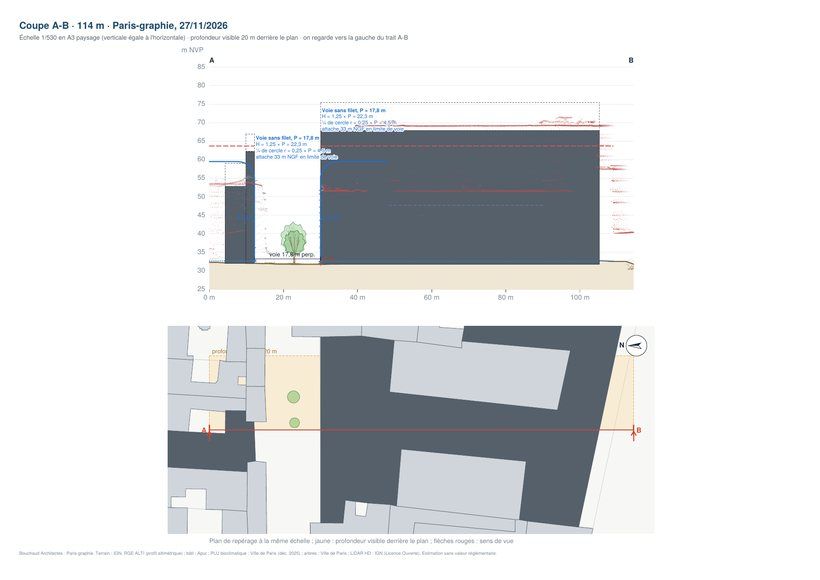
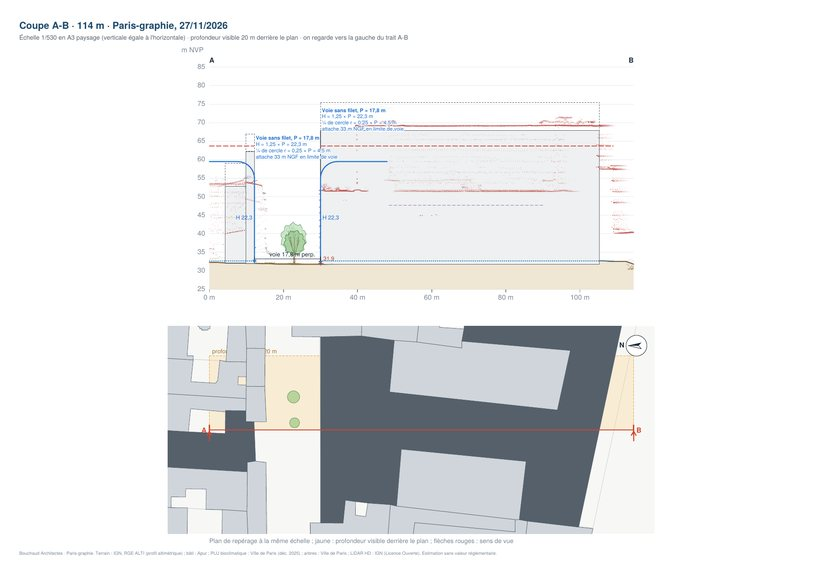
Coupe : bâtiments en blanc cassé pour laisser voir le LiDAR ; aperçu du tutoriel mis à jour
Claude-Session: https://claude.ai/code/session_01Jh7YYgZxbD1kj8CPiBwWcx

Changed region(s): [[0.3659, 0.2172, 0.7317, 0.4655], [0.2744, 0.2483, 0.3354, 0.4655]]

diff --git a/static/template.html b/static/template.html
@@ -1881,7 +1881,7 @@ async function cutShow(A,B,opt={}){
  const treeSvg=a=>{const g=treeGeom(a),op=Math.max(.25,1-Math.abs(a.d)/Math.max(1,LDg)*.7),cf=a.f==='con'||a.f==='pin'||a.f==='col'&&/cupress|thuja|taxus/i.test(a.n||'')?'#5d9466':'#8cc583',tip=esc((a.n||'Arbre ('+a.k+')')+' : '+fr(a.h,0)+' m'+(a.c?', circonférence '+a.c+' cm':'')+', port '+TK[a.f].n+(a.rem?', arbre remarquable':'')+(a.d?', à '+fr(Math.abs(a.d),0)+' m de la coupe':''));
   return '<g opacity="'+op.toFixed(2)+'"><title>'+tip+'</title><path d="'+pth(g.tr)+' Z" fill="#7a5a36"/>'+g.cr.map(c=>'<path d="'+pth(c)+' Z" fill="'+cf+'" fill-opacity=".6" stroke="#3f7f47" stroke-width=".6"/>').join('')+g.br.map(b=>'<path d="'+pth(b)+'" fill="none" stroke="#6b4f2a" stroke-width=".6" opacity=".7"/>').join('')+'</g>';};
  S.push('</g><g data-ly="arbres">');for(const a of Tr)if(Math.abs(a.d)>3)S.push(treeSvg(a));S.push('</g><g data-ly="bati">');
- for(const b of Bt){S.push('<rect x="'+f(X(b.t0))+'" y="'+f(Y(b.zb+b.hm))+'" width="'+f((b.t1-b.t0)*sc)+'" height="'+f(b.hm*sc)+'" fill="#55606b" stroke="#2b333b" stroke-width=".6"><title>Bâtiment : hauteur médiane '+f(b.hm)+' m, maximale '+f(b.hx)+' m'+(b.an?', construit vers '+b.an:'')+'</title></rect>');
+ for(const b of Bt){S.push('<rect x="'+f(X(b.t0))+'" y="'+f(Y(b.zb+b.hm))+'" width="'+f((b.t1-b.t0)*sc)+'" height="'+f(b.hm*sc)+'" fill="#eef0f1" stroke="#55606b" stroke-width=".7"><title>Bâtiment : hauteur médiane '+f(b.hm)+' m, maximale '+f(b.hx)+' m'+(b.an?', construit vers '+b.an:'')+'</title></rect>');
   if(b.hx>b.hm+.5)S.push('<rect x="'+f(X(b.t0))+'" y="'+f(Y(b.zb+b.hx))+'" width="'+f((b.t1-b.t0)*sc)+'" height="'+f((b.hx-b.hm)*sc)+'" fill="none" stroke="#55606b" stroke-dasharray="2 2" stroke-width=".6"/>');}
  S.push('</g><g data-ly="arbres">');for(const a of Tr)if(Math.abs(a.d)<=3)S.push(treeSvg(a));S.push('</g>');
  // PLU : nivellement, plafond, HMC, 15 m hors bande, gabarits
@@ -1949,7 +1949,7 @@ async function cutShow(A,B,opt={}){
  const LEG=[
   ['<svg width="26" height="8" style="vertical-align:middle;margin-right:5px">'+[2,5,6,9].map((c,i)=>'<circle cx="'+(3+i*6.5)+'" cy="4" r="2.2" fill="'+LCL[c][1]+'"/>').join('')+'</svg>','Nuage de points LiDAR HD (IGN)','Points classés du LiDAR HD de l\'IGN (au moins 10 points/m², relevé '+'aérien 2021-2025), projetés perpendiculairement sur la coupe. Seuls les morceaux utiles des dalles sont téléchargés (format COPC, requêtes partielles). Couleurs : '+Object.values(LCL).map(v=>'<span style="color:'+v[1]+'">●</span> '+v[0].toLowerCase()).join(', ')+'. Seuls les points situés derrière le plan de coupe, dans le sens de vue (flèches rouges du plan de repérage), sont gardés, jusqu\'à la profondeur réglée par le curseur (10 cm à 150 m, pratique pour les places) ; ceux placés entre l\'observateur et le plan sont supprimés. Opacité : 100 % à moins de 25 cm du plan, puis de 50 % jusqu\'à presque rien à la profondeur choisie. Au-delà de 1,5 million de points, le niveau de détail est réduit. Altitudes IGN69 converties en NVP. Points virtuels, bruit et artefacts écartés. Dans le DXF, un calque par classe (points). Données IGN, Licence Ouverte Etalab 2.0.'],
   [sw('#6b5a3a'),'Terrain','Profil altimétrique RGE ALTI de l\'IGN échantillonné le long de A-B (un point tous les 2 m environ), converti en NVP (NGF − 0,33 m). À défaut, interpolation des cotes et des courbes de niveau. Source : '+esc(D.tsrc)+'.'],
-  [sw('#55606b'),'Bâtiments','Intersections de la ligne avec les emprises Apur. Hauteur médiane en plein, maximale en pointillé, posées au point bas du terrain sous l\'emprise. Les hauteurs Apur viennent d\'un relevé photogrammétrique : vérifier sur relevé de géomètre.'],
+  ['<svg width="26" height="8" style="vertical-align:middle;margin-right:5px"><rect x=".5" y=".5" width="25" height="7" fill="#eef0f1" stroke="#55606b"/></svg>','Bâtiments','Intersections de la ligne avec les emprises Apur. Hauteur médiane en blanc cassé (pour laisser voir le LiDAR), maximale en pointillé, posées au point bas du terrain sous l\'emprise. Les hauteurs Apur viennent d\'un relevé photogrammétrique : vérifier sur relevé de géomètre.'],
   [sw('#3f7f47'),'Arbres',(D.tsrcA?'Chaque arbre public situé derrière le plan de coupe, jusqu\'à la profondeur choisie ('+nA+' ici), vient du jeu « Les arbres » de la Ville de Paris, lu en direct : position projetée sur la coupe, hauteur relevée (à défaut, 3 m + 0,08 × circonférence en cm), tronc au diamètre déduit de la circonférence. Le port dépend du genre : fastigié (peupliers d\'Italie, cyprès, cultivars « Fastigiata »), conique (cèdres, séquoias, ginkgos, liquidambars), en parasol (pins), pleureur (saules, cultivars « Pendula »), étalé (platanes, sophoras, paulownias, chênes, micocouliers), ovoïde pour les autres (tilleuls, marronniers, érables). Largeur du houppier et hauteur de la première branche en proportion de la hauteur. Les arbres privés hors de ce jeu sont déduits de la canopée Apur 2021 (16 m ou 7 m, ovoïdes). Plus un arbre est loin du plan de coupe, plus il est pâle.':'Jeu « Les arbres » indisponible : arbres déduits de la canopée Apur 2021 (16 m ou 7 m) et des alignements du PLU (14 m).')],
   [sw('#b0412e'),'Cotes et courbes','Points de nivellement NVP de la Ville de Paris et sommets des courbes de niveau IGN situés derrière le plan de coupe jusqu\'à la profondeur choisie, projetés perpendiculairement. Traits verticaux : courbes coupées par la ligne.'],
   [sw('#1d2a36'),'Largeur des voies','Les limites de voie sont les bords des parcelles cadastrales (DGFiP) coupées : tout intervalle hors parcelle est compté comme voie. La largeur affichée est mesurée perpendiculairement à la limite, pas dans le sens de la coupe : longueur coupée × sinus de l\'angle entre la coupe et la limite de parcelle, moyenne des deux rives. Au-delà de 90 m (Seine, grandes places), l\'espace est dit non cadastré et ne reçoit pas de gabarit.'],
@@ -1961,7 +1961,7 @@ async function cutShow(A,B,opt={}){
   [sw('#e07fb0','2 2'),'Hauteur maximale constructible','Cote NGF des périmètres HMC du PLU, convertie en NVP.']];
  const leg='<div class="cutleg">'+LEG.map(l=>'<p>'+l[0]+'<b>'+l[1]+'.</b> '+l[2]+'</p>').join('')+'<p class="k">Dans le sens de la coupe, les longueurs horizontales d\'un gabarit sont divisées par le sinus de l\'angle entre la coupe et la limite : une coupe biaise étire le gabarit, une coupe perpendiculaire aux façades le donne en vraie grandeur. Données du PLU bioclimatique de Paris (décembre 2025, Ville de Paris, open data sans valeur réglementaire). Cette coupe est une aide à l\'esquisse : seuls le règlement, les documents graphiques officiels et un relevé de géomètre font foi. Tous les éléments sont sur des calques séparés du DXF pour être repris.</p></div>';
  const CG=[['Relevés',['lidar','terrain','bati','arbres','cotes','courbes']],['PLU',['voies','nivellement','gabarits','regles','plafond','b15','hmc']],['Mise en page',['grille','plan']]],CN=Object.fromEntries(CLY);
- const CCOL={lidar:'linear-gradient(90deg,#9b7a45 0 33%,#2f8a3e 33% 66%,#c0504d 66%)',terrain:'#9b7a45',bati:'#55606b',arbres:'#3f7f47',cotes:'#b0412e',courbes:'#a8864a',voies:'#1d2a36',nivellement:'#2f7fbf',gabarits:'#1f6fd0',regles:'#e07a1f',plafond:'#d9544d',b15:'#8a6fb5',hmc:'#e07fb0',grille:'#c9cdd2',plan:'#d4462f'};
+ const CCOL={lidar:'linear-gradient(90deg,#9b7a45 0 33%,#2f8a3e 33% 66%,#c0504d 66%)',terrain:'#9b7a45',bati:'#e3e6e8;box-shadow:inset 0 0 0 1px #55606b',arbres:'#3f7f47',cotes:'#b0412e',courbes:'#a8864a',voies:'#1d2a36',nivellement:'#2f7fbf',gabarits:'#1f6fd0',regles:'#e07a1f',plafond:'#d9544d',b15:'#8a6fb5',hmc:'#e07fb0',grille:'#c9cdd2',plan:'#d4462f'};
  const stat=Bt.length+' bâtiments coupés, '+V.filter(v=>v.w>=2&&!v.big).length+' voies, '+nG+' gabarits, '+Tr.length+' arbres, '+C.length+' cotes NVP et '+K.length+' points de courbes jusqu\'à '+(LDg<1?Math.round(LDg*100)+' cm':fr(LDg,LDg<10?1:0)+' m')+' derrière le plan'+(D.cad?'':' (cadastre indisponible : pas de voies ni de règles du PLU)');
  box.innerHTML='<div class="alp"><div class="alh"><b>Coupe A-B · '+Math.round(L)+' m</b><button id="cutx" aria-label="Fermer">✕</button></div><div class="cutg"><aside class="cutside">'
   +CG.map(([g,ks])=>'<div class="cuth">'+g+'</div>'+ks.map(k=>'<label class="cutr"><input type="checkbox" data-k="'+k+'"'+(CUTOFF.has(k)?'':' checked')+'><i style="background:'+CCOL[k]+'"></i><span>'+CN[k]+'</span></label>').join('')).join('')

diff --git a/CHANGELOG.md b/CHANGELOG.md
@@ -13,6 +13,7 @@ Pour signaler une anomalie : h.bokobza@bouchaudarchitectes.com
 - Plan en PDF vectoriel A3, aux couleurs de la carte (calque thématique, calques superposés affichés, Seine, limites, noms de rues et numéros), avec échelle, nord, légende et sources. Non géoréférencé.
 - Fenêtre de coupe : export PDF vectoriel A3 à la place du SVG, nuage LiDAR compris (un point vectoriel par point LiDAR, opacité selon la profondeur), calques et profondeur affichés.
 - Fiche PDF : les coupes sur rue sont désormais vectorielles.
+- Coupe : bâtiments en blanc cassé (contour gris) au lieu de blocs gris, pour laisser voir le nuage LiDAR.
 - Tutoriel avec démonstration sur le 48 boulevard Haussmann : défilement et choix du calque de l'âge du bâti, zoom et ouverture de la fiche avec aperçu du PDF, plan PDF tracé avec aperçu, coupe tracée avec aperçu (LiDAR compris). La vue, le calque et la fiche d'origine sont rétablis à la fin.
 
 ## 2026-11-26
